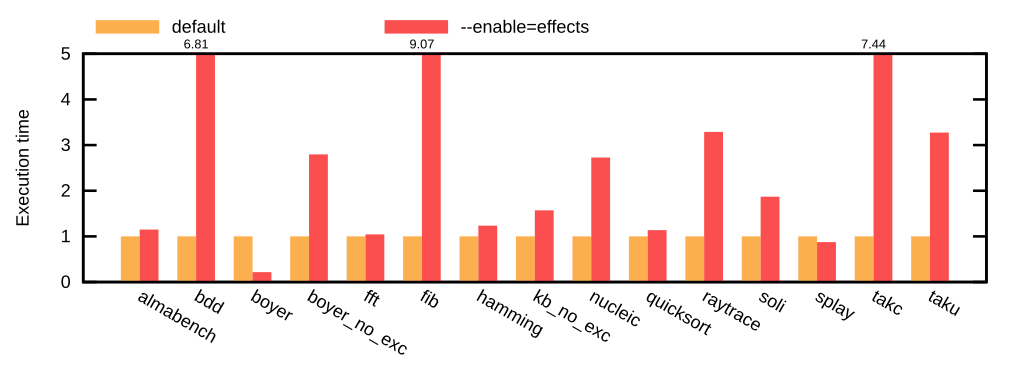
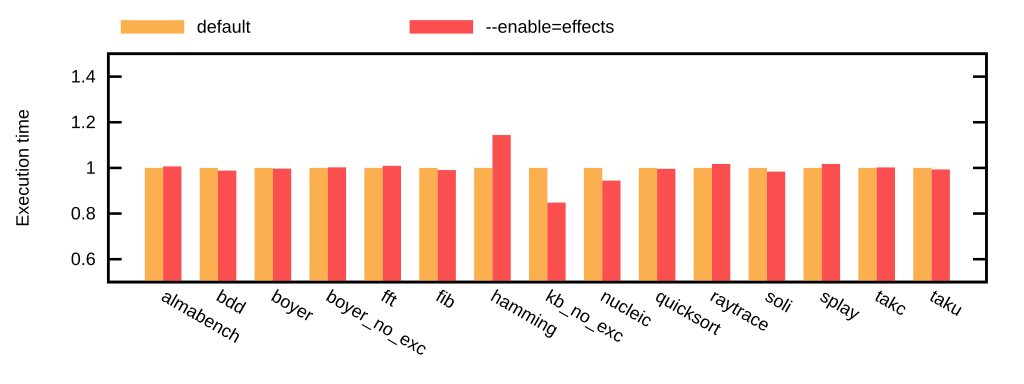
Documentation updates

Changed region(s): [[0.0625, 0.0312, 0.9375, 0.9375], [0.4375, 0.0312, 0.5938, 0.0938], [0.0938, 0.0312, 0.125, 0.0938]]

diff --git a/CHANGES.md b/CHANGES.md
@@ -2,7 +2,7 @@
 ## Features/Changes
 * Misc: bump min ocaml version to 4.08
 * Misc: remove some old runtime files to support some external libs
-* Effects: improved CPS transform, resulting in lower compilation time and smaller generated code
+* Effects: partial CPS transformation, resulting in much better performances, lower compilation time and smaller generated code
 * Compiler: separate compilation can now drops unused units when linking (similar to ocamlc). (#1378)
   Feature is disabled by default while dune rules are being fixed. Enable with --enable=auto-link.
 * Compiler: specialize string to js-string conversion for all valid utf8 strings (previously just ascii)
